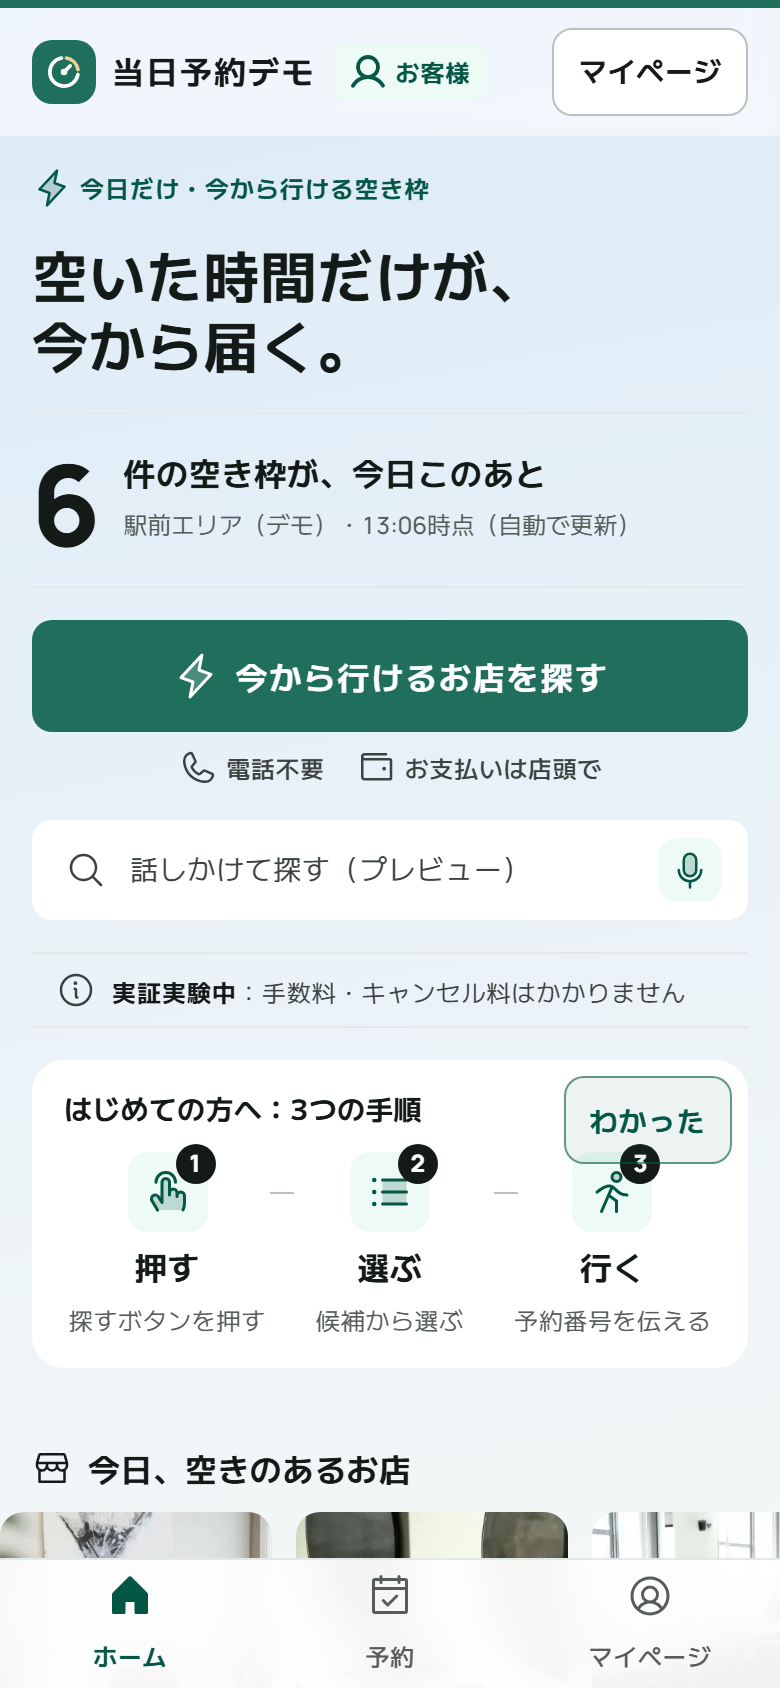
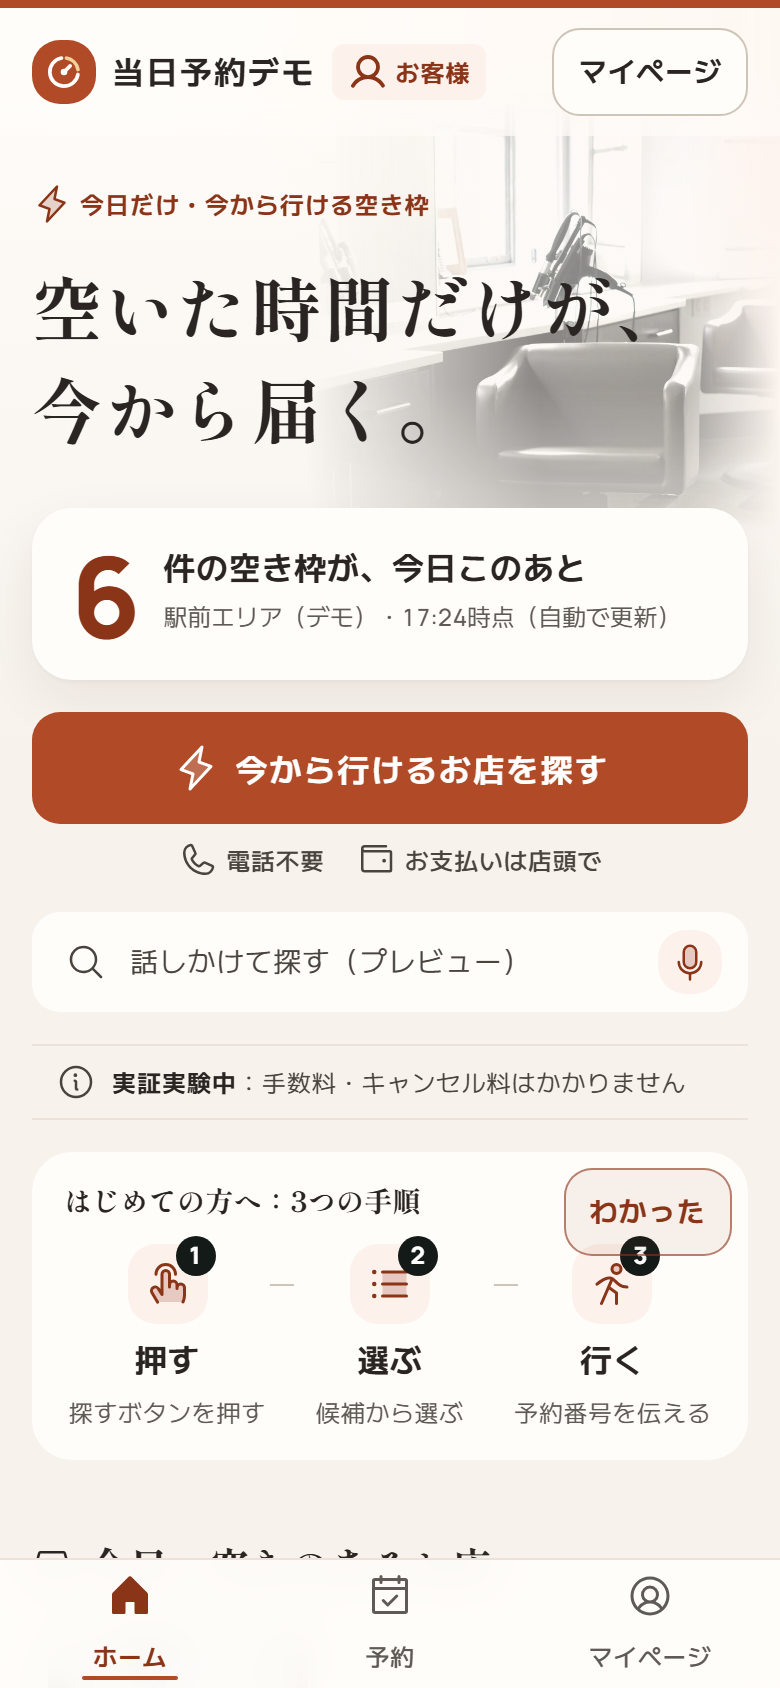
お客様の画面のデザインを、デザイン案に寄せる（見た目だけ。機能・文言・操作は変えない）
- お客様の画面だけ：象牙色の地・砂の灰色の文字・素焼きの赤の操作（どの文字も 4.5:1 以上）、見出しは明朝（Shippori Mincho）、カードはやわらかい影と少し大きい角丸
- ホームの上部：明朝の大見出しの後ろに、人物の写っていない店内の写真を淡く敷く。空きの数は白いカード
- 今日、空きのあるお店：写真を左に置いた横長のカードを縦に並べ、最初の時刻を淡い札で示す
- 下のタブ：選んでいるタブに下線
- デザイン案の実在のサービス名・ロゴ、顔の分かる人物の写真、新しい機能にあたる部分は使っていない
- docs/design-references.md（4-7）・変更後の画面写真を更新

diff --git a/components/user/UserHome.module.css b/components/user/UserHome.module.css
@@ -1,11 +1,30 @@
 /* お客様のホーム：はじめの画面（今の空きの数・探すボタン・話しかけて探す・お店の写真）→ 時間帯 → 候補 */
 
-/* ---------- はじめの画面 ---------- */
+/* ---------- はじめの画面 ----------
+   デザイン案に寄せて：明朝の大きな見出しの後ろに、光の入る店内の写真を淡く敷き、数・探すボタン・お店をやわらかいカードで重ねる */
 .hero {
+  position: relative;
+  isolation: isolate;
   display: flex;
   flex-direction: column;
   gap: var(--space-4);
-  padding-block: var(--space-4) var(--space-2);
+  padding-block: var(--space-6) var(--space-2);
+}
+
+/* 見出しの後ろの写真：右側だけに置き、左端と下端を地の色へ溶かす。文字がのる部分は地の色に近いので、読みやすさは変わらない */
+.heroArt {
+  position: absolute;
+  z-index: -1;
+  inset-block-start: calc(-1 * var(--space-4));
+  inset-inline-start: 38%;
+  inset-inline-end: calc(-1 * var(--pad-page));
+  block-size: calc(var(--space-16) * 4);
+  background: url("/images/salons/aoi-main-wide.webp") 70% center / cover;
+  opacity: 0.45;
+  /* マスクは不透明な色なら何でもよい（形だけに使う） */
+  mask-image: linear-gradient(90deg, transparent, var(--color-ink) 50%, var(--color-ink) 80%, transparent), linear-gradient(0deg, transparent, var(--color-ink) 45%);
+  mask-composite: intersect;
+  pointer-events: none;
 }
 
 .kicker {
@@ -19,10 +38,10 @@
 }
 
 .headline {
-  font-size: var(--text-heading);
+  font-size: var(--text-display-serif);
   font-weight: var(--weight-bold);
-  line-height: var(--leading-tight);
-  letter-spacing: 0.02em;
+  line-height: var(--leading-snug);
+  letter-spacing: 0.04em;
 }
 
 .headline span {
@@ -35,11 +54,15 @@
   grid-template-columns: auto 1fr;
   align-items: end;
   gap: var(--space-1) var(--space-3);
-  padding-block: var(--space-4);
-  border-block: 1px solid var(--color-line);
+  margin-block-start: var(--space-2);
+  padding: var(--space-4) var(--space-5);
+  border-radius: var(--radius-surface);
+  background: var(--color-surface);
+  box-shadow: var(--shadow-card);
 }
 
 .liveNum {
+  color: var(--color-action-text);
   font-family: var(--font-num);
   font-size: var(--text-display);
   font-weight: var(--weight-heavy);
@@ -102,54 +125,77 @@
   display: flex;
   align-items: center;
   gap: var(--space-2);
-  font-size: var(--text-body);
+  font-size: var(--text-title);
   font-weight: var(--weight-bold);
 }
 
+/* お店：写真を左に、名前と最初の時刻を右に置いた横長のカードを縦に並べる */
 .shopRow {
   display: flex;
+  flex-direction: column;
   gap: var(--space-3);
-  overflow-x: auto;
-  margin-inline: calc(-1 * var(--pad-page));
-  padding-inline: var(--pad-page);
-  padding-block-end: var(--space-1);
-  scroll-snap-type: x mandatory;
   list-style: none;
 }
 
-.shopRow > li {
-  flex: 0 0 var(--size-tile);
-  scroll-snap-align: start;
-}
-
 .shop {
-  display: flex;
-  flex-direction: column;
-  gap: var(--space-2);
+  display: grid;
+  grid-template-columns: var(--size-tile) 1fr auto;
+  grid-template-rows: 1fr auto auto 1fr;
+  align-items: center;
+  gap: var(--space-1) var(--space-4);
   inline-size: 100%;
-  padding: 0;
+  padding: var(--space-2);
   border: 0;
-  background: none;
+  border-radius: var(--radius-surface);
+  background: var(--color-surface);
+  box-shadow: var(--shadow-card);
   color: var(--color-ink);
   text-align: start;
+  transition:
+    transform var(--motion-short) var(--ease-out),
+    box-shadow var(--motion-short) var(--ease-out);
+}
+
+.shop:hover {
+  transform: translateY(-2px);
+}
+
+.shop > :first-child {
+  grid-row: 1 / -1;
+  border-radius: var(--radius-photo);
+}
+
+.shopGo {
+  grid-column: 3;
+  grid-row: 1 / -1;
+  color: var(--color-ink-sub);
 }
 
 .shopName {
+  grid-column: 2;
+  grid-row: 2;
   overflow: hidden;
-  font-size: var(--text-small);
+  font-size: var(--text-body);
   font-weight: var(--weight-bold);
   line-height: var(--leading-snug);
   text-overflow: ellipsis;
   white-space: nowrap;
 }
 
+/* 最初の時刻：淡い素焼きの色の丸い札（デザイン案の「本日の空き枠」の札） */
 .shopTime {
+  grid-column: 2;
+  grid-row: 3;
+  justify-self: start;
   display: inline-flex;
   align-items: center;
   gap: var(--space-1);
-  color: var(--color-ink-2);
-  font-size: var(--text-caption);
-  font-weight: var(--weight-medium);
+  padding: var(--space-1) var(--space-3);
+  border-radius: var(--radius-control);
+  background: var(--color-action-soft);
+  color: var(--color-action-text);
+  font-size: var(--text-small);
+  font-weight: var(--weight-bold);
 }
 
 /* ---------- 時間帯を選ぶ ---------- */
@@ -171,6 +217,7 @@
   border: 0;
   border-radius: var(--radius-surface);
   background: var(--color-surface);
+  box-shadow: var(--shadow-card);
   color: var(--color-ink);
   text-align: start;
   transition: background-color var(--motion-short) var(--ease-out);
@@ -186,8 +233,8 @@
   inline-size: var(--space-10);
   block-size: var(--space-10);
   border-radius: var(--radius-control);
-  background: var(--color-surface-sunken);
-  color: var(--color-ink);
+  background: var(--color-action-soft);
+  color: var(--color-action-text);
 }
 
 .windowText {
@@ -276,7 +323,7 @@
   align-items: center;
   gap: var(--space-2);
   margin-block: var(--space-8) var(--space-3);
-  font-size: var(--text-body);
+  font-size: var(--text-title);
   font-weight: var(--weight-bold);
 }
 
@@ -287,6 +334,7 @@
   padding: var(--space-6) var(--space-4);
   border-radius: var(--radius-surface);
   background: var(--color-surface);
+  box-shadow: var(--shadow-card);
   text-align: center;
 }
 

diff --git a/app/styles/tokens.css b/app/styles/tokens.css
@@ -77,6 +77,25 @@
   --sky-night-a: #e1e3f9;
   --sky-night-b: #e6e0f3;
 
+  /* お客様の画面の温かい色（象牙色の地・砂の灰色・素焼きの赤）。デザイン案（温かい光・明朝の見出し）に合わせて加えた
+     素焼きの赤 600 に白い文字で 5.45:1、700 の文字は象牙色の地の上で 7.3:1 */
+  --ivory-0: #fffdfa;
+  --ivory-50: #f7f2ec;
+  --ivory-100: #f3ece4;
+  --ivory-200: #ebe3da;
+  --ivory-300: #cfc4b8;
+  --sand-500: #6b645e;
+  --sand-600: #5f5a55;
+  --sand-700: #4a443f;
+  --sand-900: #2a2522;
+  --clay-50: #fdf1eb;
+  --clay-100: #fbe6dc;
+  --clay-200: #f2c9b8;
+  --clay-600: #b04a27;
+  --clay-700: #8a3418;
+  --clay-800: #6e2810;
+  --clay-900: #3d1608;
+
   /* ---------- 基本の値：文字 ---------- */
   --size-12: 0.75rem;
   --size-14: 0.875rem;
@@ -194,6 +213,9 @@
   /* 文字の段階（補足 12・本文 14〜16・小見出し 20・見出し 28・数字の主役 40・業務の大きな時刻 56） */
   --font-sans: var(--font-jp), "Hiragino Sans", "Hiragino Kaku Gothic ProN", "Yu Gothic", "Meiryo", system-ui, sans-serif;
   --font-num: var(--font-manrope), var(--font-sans);
+  /* 明朝（お客様の画面の見出し）。--font-heading は見出し（h1・h2）の字。お客様の画面だけ明朝にする */
+  --font-display: var(--font-mincho), "Hiragino Mincho ProN", "Yu Mincho", "YuMincho", serif;
+  --font-heading: var(--font-sans);
   --text-caption: var(--size-12);
   --text-small: var(--size-14);
   --text-body: var(--size-16);
@@ -201,6 +223,8 @@
   --text-heading: var(--size-28);
   --text-figure: var(--size-40);
   --text-display: var(--size-56);
+  /* お客様のホームの明朝の大見出し（画面の幅に合わせて 32〜44px） */
+  --text-display-serif: clamp(2rem, 9vw, 2.75rem);
   /* 業務の画面の予約の知らせ（離れた場所からも読める大きさ） */
   --text-alert-time: clamp(4rem, 14vw, 8rem);
   --text-alert-name: clamp(2rem, 6vw, 3.5rem);
@@ -232,6 +256,8 @@
   /* 影は「浮いているもの」（シート・下部のバー・知らせ）だけに使う */
   --shadow-float: 0 -1px 0 rgb(20 26 24 / 0.04), 0 12px 32px rgb(20 26 24 / 0.14);
   --shadow-lift: 0 1px 2px rgb(20 26 24 / 0.06), 0 6px 16px rgb(20 26 24 / 0.08);
+  /* 面の影：ふだんはなし。お客様の画面だけ、カードをやわらかく浮かせる */
+  --shadow-card: none;
 
   /* 動き：短い・標準・長いの3段階（動きを減らす設定では止める） */
   --motion-short: 120ms;
@@ -268,6 +294,34 @@
 }
 
 /* 役割ごとのテーマ：上部の帯（data-role）で、主要な操作の色を切り替える */
+/* お客様：温かい象牙色の地に、素焼きの赤の操作。見出しは明朝、カードはやわらかい影で浮かせる（デザイン案に合わせた） */
+:root:has(header[data-role="user"]) {
+  --color-bg: var(--ivory-50);
+  --color-surface: var(--ivory-0);
+  --color-surface-sunken: var(--ivory-100);
+  --color-ink: var(--sand-900);
+  --color-ink-2: var(--sand-700);
+  --color-ink-sub: var(--sand-600);
+  --color-line: var(--ivory-200);
+  --color-line-strong: var(--ivory-300);
+  --color-action: var(--clay-600);
+  --color-action-hover: var(--clay-700);
+  --color-action-soft: var(--clay-50);
+  --color-action-line: var(--clay-200);
+  --color-action-text: var(--clay-700);
+  --color-focus: var(--clay-700);
+  --color-selected: var(--sand-900);
+  --color-alert-bg: var(--clay-900);
+  --color-state-done: var(--sand-700);
+  --font-heading: var(--font-display);
+  --radius-surface: 20px;
+  --radius-control: 14px;
+  --shadow-card: 0 1px 2px rgb(61 22 8 / 0.04), 0 10px 28px rgb(61 22 8 / 0.07);
+  /* 窓から差しこむ朝の光：右上から淡い光、下へ象牙色に */
+  --page-wash: radial-gradient(120% 60% at 100% 0%, var(--clay-50), transparent 60%),
+    linear-gradient(180deg, var(--ivory-0), var(--ivory-50) 45%);
+}
+
 :root:has(header[data-role="salon"]) {
   --color-alert-bg: var(--indigo-900);
   --color-action: var(--indigo-600);

diff --git a/app/layout.tsx b/app/layout.tsx
@@ -2,7 +2,7 @@ import './styles/tokens.css';
 import './styles/base.css';
 import type { Metadata, Viewport } from 'next';
 import type { ReactNode } from 'react';
-import { M_PLUS_2, Manrope } from 'next/font/google';
+import { M_PLUS_2, Manrope, Shippori_Mincho } from 'next/font/google';
 import NetworkBanner from '@/components/NetworkBanner';
 import UsageTracker from '@/components/UsageTracker';
 
@@ -13,6 +13,15 @@ const mplus = M_PLUS_2({
   subsets: ['latin'],
   display: 'swap',
   variable: '--font-jp',
+});
+
+// 見出し：Shippori Mincho（お客様の画面の見出しだけ。温かく落ち着いた明朝。SIL Open Font License）
+const mincho = Shippori_Mincho({
+  subsets: ['latin'],
+  weight: ['600', '700'],
+  display: 'swap',
+  preload: false,
+  variable: '--font-mincho',
 });
 
 const manrope = Manrope({
@@ -44,7 +53,7 @@ const SKY_SCRIPT = `(function(){function s(){var h=new Date(Date.now()+324e5).ge
 export default function RootLayout({ children }: { children: ReactNode }) {
   return (
     // data-sky は描画の前にスクリプトが付けるので、その差は読み込み時の不一致として扱わない
-    <html lang="ja" className={`${mplus.variable} ${manrope.variable}`} suppressHydrationWarning>
+    <html lang="ja" className={`${mplus.variable} ${mincho.variable} ${manrope.variable}`} suppressHydrationWarning>
       <head>
         <script dangerouslySetInnerHTML={{ __html: SKY_SCRIPT }} />
       </head>

diff --git a/components/user/UserHome.tsx b/components/user/UserHome.tsx
@@ -19,6 +19,7 @@ import {
   ArrowRight,
   BellRinging,
   CalendarCheck,
+  CaretRight,
   Clock,
   Crosshair,
   Info,
@@ -363,6 +364,8 @@ export default function UserHome() {
         <>
           {step === 'start' && (
             <section className={st.hero}>
+              {/* 飾り：窓から光の入る店内の写真（人物なし）を、見出しの後ろに淡く敷く */}
+              <div className={st.heroArt} aria-hidden="true" />
               <p className={st.kicker}>
                 <Lightning size={20} weight="duotone" aria-hidden focusable="false" />
                 今日だけ・今から行ける空き枠
@@ -435,6 +438,7 @@ export default function UserHome() {
                             {fmtTime(sh.first)}から・{sh.count}枠
                           </span>
                           <span className="sr-only">（今日の候補を見る）</span>
+                          <CaretRight size={20} className={st.shopGo} aria-hidden focusable="false" />
                         </button>
                       </li>
                     ))}

diff --git a/components/user/CandidateCard.module.css b/components/user/CandidateCard.module.css
@@ -13,6 +13,7 @@
   padding: var(--space-4);
   border-radius: var(--radius-surface);
   background: var(--color-surface);
+  box-shadow: var(--shadow-card);
   transition: box-shadow var(--motion-short) var(--ease-out);
   /* 届く：カードは少し上から入る（動きを減らす設定では、長さが 0 になり、すぐに表示される） */
   animation: arrive var(--motion-long) var(--ease-out) both;
@@ -44,7 +45,7 @@
 }
 
 .card[data-selected="true"] {
-  box-shadow: inset 0 0 0 2px var(--color-selected);
+  box-shadow: inset 0 0 0 2px var(--color-selected), var(--shadow-card);
 }
 
 .head {

diff --git a/components/user/TabBar.module.css b/components/user/TabBar.module.css
@@ -37,8 +37,20 @@
 }
 
 .tab[aria-current="page"] {
+  position: relative;
   color: var(--color-action-text);
   font-weight: var(--weight-bold);
+}
+
+/* 選んでいるタブの印（デザイン案の下線）。色だけでなく、アイコンの塗りと太字でも分かる */
+.tab[aria-current="page"]::after {
+  content: "";
+  position: absolute;
+  inset-block-end: var(--space-1);
+  inline-size: var(--space-12);
+  block-size: 2px;
+  border-radius: 2px;
+  background: var(--color-action);
 }
 
 .dot {

diff --git a/app/styles/base.css b/app/styles/base.css
@@ -64,6 +64,12 @@ h4 {
   letter-spacing: 0.01em;
 }
 
+/* 画面と章の見出しの字（お客様の画面だけ明朝。tokens.css の --font-heading） */
+h1,
+h2 {
+  font-family: var(--font-heading);
+}
+
 ul,
 ol {
   margin: 0;
